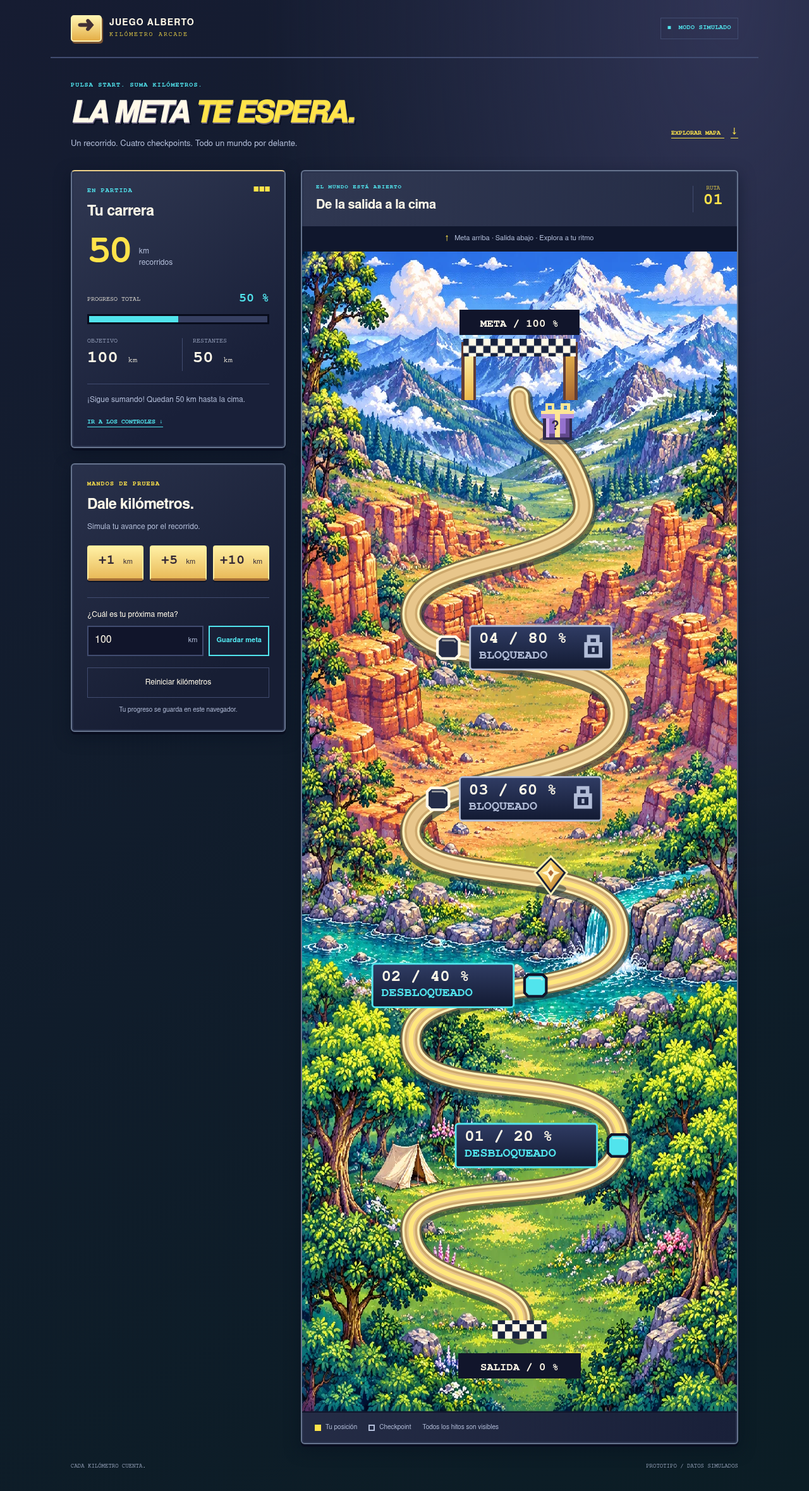
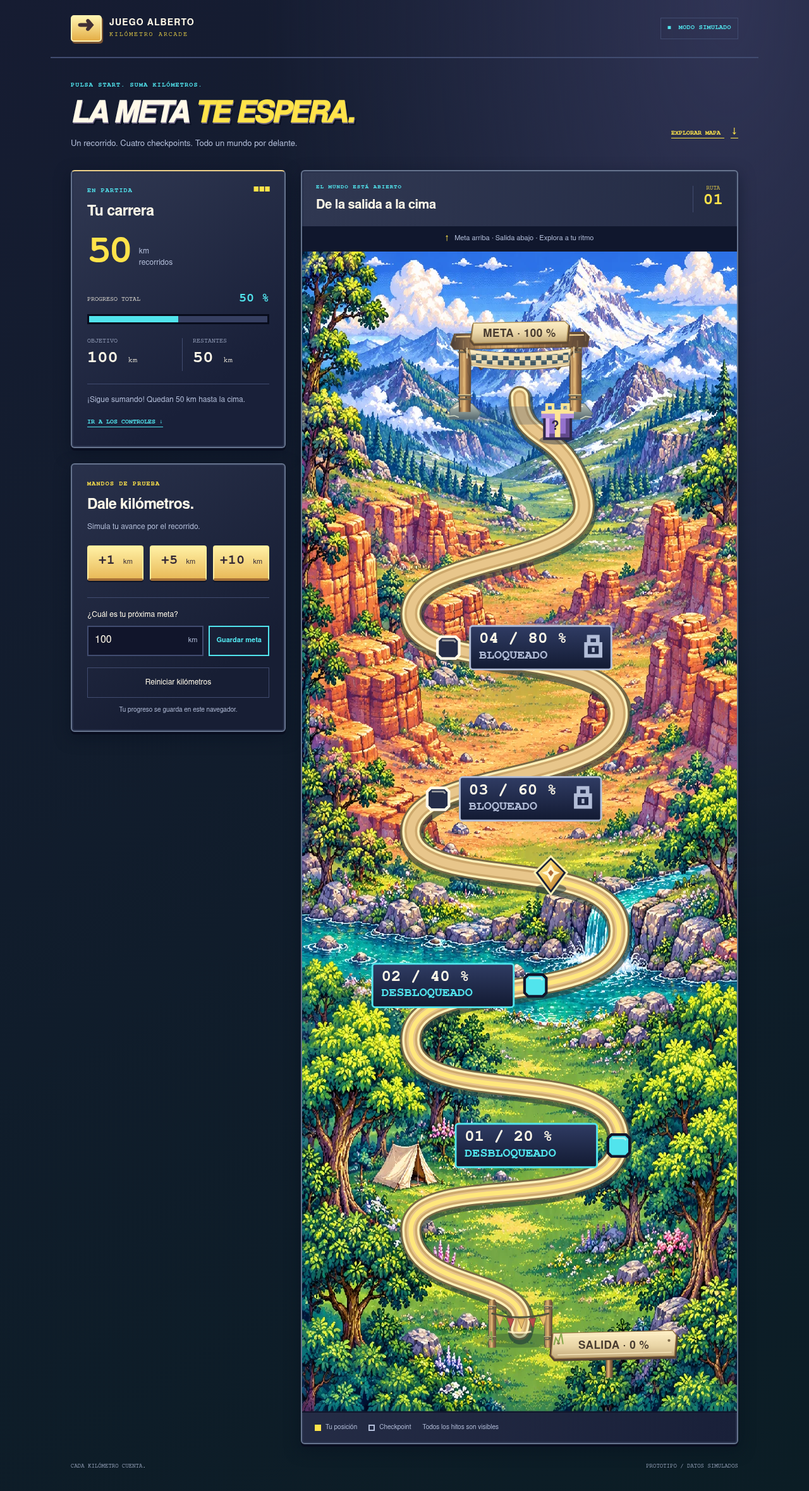
fix: prioritize mobile map and blend start and finish into landscape

Changed region(s): [[0.5625, 0.8665, 0.8438, 0.9284], [0.5625, 0.1857, 0.75, 0.3095]]

diff --git a/frontend/index.html b/frontend/index.html
@@ -19,16 +19,6 @@
   <main id="adventure" tabindex="-1">
     <div class="intro"><div><p class="eyebrow">PULSA START. SUMA KILÓMETROS.</p><h1>LA META <span>TE ESPERA.</span></h1><p>Un recorrido. Cuatro checkpoints. Todo un mundo por delante.</p></div><a class="explore-link" href="#map-heading">EXPLORAR MAPA <span aria-hidden="true">↓</span></a></div>
     <div class="adventure-layout">
-      <section class="progress-card" aria-labelledby="progress-heading">
-        <div class="panel-heading"><p class="eyebrow">EN PARTIDA</p><span aria-hidden="true">■ ■ ■</span></div>
-        <h2 id="progress-heading">Tu carrera</h2>
-        <div class="distance"><span id="distance">0</span><span>km<br>recorridos</span></div>
-        <div class="progress-label"><label for="progress">PROGRESO TOTAL</label><strong id="percentage">0 %</strong></div>
-        <progress id="progress" max="100" value="0">0 %</progress>
-        <dl class="stats"><div><dt>OBJETIVO</dt><dd><span id="goal">100</span> <small>km</small></dd></div><div><dt>RESTANTES</dt><dd><span id="remaining">100</span> <small>km</small></dd></div></dl>
-        <p id="journey-message" class="journey-message">Todo listo. ¡A por el primer kilómetro!</p>
-        <a class="controls-link" href="#simulation-heading">IR A LOS CONTROLES <span aria-hidden="true">↓</span></a>
-      </section>
       <section class="map-card" aria-labelledby="map-heading">
         <div class="map-header"><div><p class="eyebrow">EL MUNDO ESTÁ ABIERTO</p><h2 id="map-heading" tabindex="-1">De la salida a la cima</h2></div><span class="map-badge">RUTA<br><strong>01</strong></span></div>
         <div class="map-guide"><span aria-hidden="true">↑</span> Meta arriba · Salida abajo · Explora a tu ritmo</div>
@@ -39,7 +29,12 @@
             <path id="route" d="M240 1190 C260 1130 120 1150 120 1080 S350 1070 350 980 S120 950 120 870 S350 840 350 750 S120 710 120 640 S350 590 350 510 S120 470 120 400 S330 350 310 270 S240 215 240 160"/>
             <linearGradient id="map-plate" x2="0" y2="1"><stop stop-color="#303c64"/><stop offset="1" stop-color="#121a32"/></linearGradient>
             <linearGradient id="gold-metal" x2="1" y2="1"><stop stop-color="#fff4b0"/><stop offset=".45" stop-color="#efbf53"/><stop offset="1" stop-color="#a96832"/></linearGradient>
-            <pattern id="checks" width="16" height="16" patternUnits="userSpaceOnUse"><rect width="16" height="16" fill="#fff9e8"/><path d="M0 0h8v8H0zM8 8h8v8H8z" fill="#18223d"/></pattern>
+            <linearGradient id="gate-timber"><stop stop-color="#493d37"/><stop offset=".22" stop-color="#ba8d58"/><stop offset=".45" stop-color="#e3b979"/><stop offset=".6" stop-color="#a17549"/><stop offset="1" stop-color="#564334"/></linearGradient>
+            <linearGradient id="gate-stone" x2="0" y2="1"><stop stop-color="#c8c9bd"/><stop offset=".5" stop-color="#8f9d99"/><stop offset="1" stop-color="#576a72"/></linearGradient>
+            <linearGradient id="gate-cloth" x2="0" y2="1"><stop stop-color="#fff0c7"/><stop offset=".55" stop-color="#e9d5a6"/><stop offset="1" stop-color="#c1a878"/></linearGradient>
+            <pattern id="wood-grain" width="18" height="28" patternUnits="userSpaceOnUse"><path d="M3 0v8l2 6v14M12 0v12l-2 7v9" fill="none" stroke="#493d37" stroke-opacity=".3" stroke-width=".8"/><path d="M7 3v12M16 14v10" stroke="#ffe2a1" stroke-opacity=".3" stroke-width=".7"/></pattern>
+            <pattern id="finish-weave" width="12" height="12" patternUnits="userSpaceOnUse"><rect width="12" height="12" fill="#e8d8af"/><path d="M0 0h6v6H0zM6 6h6v6H6z" fill="#405966"/><path d="M0 1h12M0 7h12" stroke="#fff5d6" stroke-opacity=".25" stroke-width=".7"/></pattern>
+            <g id="timber-post"><path d="M-7 0 4-2 7 3 6 80H-7z" fill="url(#gate-timber)"/><path d="M-7 0 4-2 7 3 6 80H-7z" fill="url(#wood-grain)"/><path d="M-5 3v72" stroke="#f9d392" stroke-width="1" opacity=".65"/><path d="M-8 10H7m-15 4H7m-15 48H7m-15 4H7" stroke="#6a6350" stroke-width="2"/><path d="M-8 9H6m-14 52H6" stroke="#e1cf99" stroke-width="1"/><circle cx="1" cy="12" r="1" fill="#403a32"/><circle cx="1" cy="64" r="1" fill="#403a32"/></g>
             <g id="lock"><path d="M-5-3v-7H5v7M-8-2H8v13H-8z" fill="none" stroke="currentColor" stroke-width="4"/><path d="M0 2v5" stroke="currentColor" stroke-width="3"/></g>
           </defs>
           <image href="./assets/world-16bit.webp" width="480" height="1280" preserveAspectRatio="none" aria-hidden="true"/>
@@ -51,13 +46,47 @@
             <use href="#route" stroke="#e8c68b" stroke-width="9"/>
             <use id="route-progress" href="#route" stroke="#ffe77c" stroke-width="5"/>
           </g>
-          <g aria-hidden="true" shape-rendering="crispEdges">
-            <rect x="210" y="1180" width="60" height="20" fill="url(#checks)"/>
-            <path d="M172 1216h136v28H172z" fill="#11152b"/><text x="240" y="1235" text-anchor="middle" class="endpoint">SALIDA / 0 %</text>
-            <path d="M184 164V108h112v56" stroke="#633d35" stroke-width="16" fill="none"/>
-            <path d="M184 164v-56h112v56" stroke="url(#gold-metal)" stroke-width="10" fill="none"/>
-            <rect x="178" y="96" width="124" height="20" fill="url(#checks)"/>
-            <rect x="174" y="64" width="132" height="28" fill="#11152b"/><text x="240" y="83" text-anchor="middle" class="endpoint">META / 100 %</text>
+          <g aria-hidden="true">
+            <!-- Los hitos se apoyan en el terreno con materiales y sombras del paisaje. -->
+            <g id="start-gate">
+              <ellipse cx="240" cy="1202" rx="51" ry="8" fill="#173f32" opacity=".3"/>
+              <g transform="translate(210 1158) scale(.65)"><use href="#timber-post"/></g>
+              <g transform="translate(272 1158) scale(.65)"><use href="#timber-post"/></g>
+              <path d="M209 1172q30 9 64 0" fill="none" stroke="#4c513b" stroke-width="2"/>
+              <path d="m214 1174 8 2-4 10zM238 1178h8l-4 11zM262 1176l8-2-3 12z" fill="#e9bc6b" stroke="#997344" stroke-width=".6"/>
+              <path d="m226 1177 8 1-4 10zM250 1178l8-1-3 11z" fill="#b94f4a" stroke="#793e40" stroke-width=".6"/>
+              <path d="M227 1192q13 3 26 0" fill="none" stroke="#fff0c7" stroke-width="2" opacity=".8"/>
+              <g transform="translate(276 1200)">
+                <ellipse cx="64" cy="43" rx="27" ry="4" fill="#173f32" opacity=".25"/>
+                <path d="M59 4h8v39h-8z" fill="url(#gate-timber)"/>
+                <path d="M-1-5 134-8 139-3 137 22 2 25-3 19z" fill="#584432"/>
+                <path d="M1-6 133-9 137-4 135 19 3 22-1 18z" fill="url(#gate-cloth)" stroke="#9c794a" stroke-width="1"/>
+                <path d="M4-2 132-5M6 18l126-3" stroke="#fff0c7" stroke-width="1" opacity=".8"/>
+                <circle cx="7" cy="5" r="1.5" fill="#7b6848"/><circle cx="129" cy="2" r="1.5" fill="#7b6848"/>
+                <text x="68" y="11" text-anchor="middle" class="endpoint">SALIDA · 0 %</text>
+              </g>
+              <path d="m200 1204 3-8 2 6 4-10 1 12M278 1207l2-8 3 5 3-10 2 12" fill="none" stroke="#88aa4d" stroke-width="1.5"/>
+            </g>
+            <g id="finish-gate">
+              <ellipse cx="240" cy="181" rx="80" ry="10" fill="#344f67" opacity=".26"/>
+              <path d="m163 174 8-8 17 2 9 10-4 7h-30zM287 175l8-8 17 1 9 11-6 6h-28z" fill="url(#gate-stone)" stroke="#61757b" stroke-width=".8"/>
+              <path d="m167 173 8-4 11 2M293 173l5-3 12 1" stroke="#e3e2cc" stroke-width="1.5" fill="none"/>
+              <use href="#timber-post" transform="translate(180 97)"/>
+              <use href="#timber-post" transform="translate(302 97)"/>
+              <path d="m177 103 23 26m103-26-23 26" stroke="#594733" stroke-width="7"/>
+              <path d="m177 102 23 26m103-26-23 26" stroke="#bf985e" stroke-width="4"/>
+              <path d="M168 91 312 89 317 94 315 105 168 108 164 103z" fill="url(#gate-timber)" stroke="#65503b" stroke-width="1"/>
+              <path d="M168 91 312 89 317 94 315 105 168 108 164 103z" fill="url(#wood-grain)"/>
+              <path d="M170 94 311 92" stroke="#f5d596" stroke-width="1.5"/>
+              <path d="M185 108q55 8 112-1l-2 19q-55 9-108 0z" fill="url(#gate-cloth)" stroke="#927d59" stroke-width=".7"/>
+              <path d="M186 112q54 8 110-1l-1 11q-55 8-108 0z" fill="url(#finish-weave)"/>
+              <path d="M188 126q53 7 105-1" fill="none" stroke="#fff0c7" stroke-width="1"/>
+              <path d="m188 80 103-2 5 4-2 20-105 2-4-5z" fill="#604b34"/>
+              <path d="m189 79 101-2 4 4-2 18-102 2-3-4z" fill="url(#gate-cloth)" stroke="#b09259" stroke-width="1"/>
+              <text x="240" y="94" text-anchor="middle" class="endpoint">META · 100 %</text>
+              <path d="M182 106v12m118-13v12" stroke="#dfcba2" stroke-width="1.5"/>
+              <path d="m160 182 8-1 5 2m134 2 6-3 7 1" fill="none" stroke="#d9e0cc" stroke-width="1"/>
+            </g>
             <g id="mystery-gift" transform="translate(282 188)">
               <ellipse cy="20" rx="20" ry="5" fill="#12233a" opacity=".4"/>
               <path d="M-16-12h32v32h-32z" fill="#30294c"/>
@@ -86,6 +115,16 @@
         </svg>
         <ol id="milestone-summary" class="sr-only" aria-label="Estado de los hitos"><li data-milestone="0.2">Checkpoint 20 %: bloqueado.</li><li data-milestone="0.4">Checkpoint 40 %: bloqueado.</li><li data-milestone="0.6">Checkpoint 60 %: bloqueado.</li><li data-milestone="0.8">Checkpoint 80 %: bloqueado.</li><li data-milestone="1">Meta 100 %: pendiente.</li></ol>
         <div class="map-footer"><span><i class="legend-marker" aria-hidden="true"></i> Tu posición</span><span><i class="legend-node" aria-hidden="true"></i> Checkpoint</span><span>Todos los hitos son visibles</span></div>
+      </section>
+      <section class="progress-card" aria-labelledby="progress-heading">
+        <div class="panel-heading"><p class="eyebrow">EN PARTIDA</p><span aria-hidden="true">■ ■ ■</span></div>
+        <h2 id="progress-heading">Tu carrera</h2>
+        <div class="distance"><span id="distance">0</span><span>km<br>recorridos</span></div>
+        <div class="progress-label"><label for="progress">PROGRESO TOTAL</label><strong id="percentage">0 %</strong></div>
+        <progress id="progress" max="100" value="0">0 %</progress>
+        <dl class="stats"><div><dt>OBJETIVO</dt><dd><span id="goal">100</span> <small>km</small></dd></div><div><dt>RESTANTES</dt><dd><span id="remaining">100</span> <small>km</small></dd></div></dl>
+        <p id="journey-message" class="journey-message">Todo listo. ¡A por el primer kilómetro!</p>
+        <a class="controls-link" href="#simulation-heading">IR A LOS CONTROLES <span aria-hidden="true">↓</span></a>
       </section>
       <section class="simulation-card" aria-labelledby="simulation-heading">
         <p class="eyebrow">MANDOS DE PRUEBA</p><h2 id="simulation-heading" tabindex="-1">Dale kilómetros.</h2><p class="hint">Simula tu avance por el recorrido.</p>

diff --git a/frontend/css/style.css b/frontend/css/style.css
@@ -67,8 +67,7 @@ progress::-moz-progress-bar { background: var(--cyan); }
 .map-guide > span { color: var(--yellow); margin-right: 6px; }
 .map { display: block; width: 100%; height: auto; }
 .map image { image-rendering: pixelated; }
-.terrain-label { fill: #11152b; font: bold 11px ui-monospace, monospace; letter-spacing: 1px; }
-.endpoint { fill: #fff9e8; font: bold 12px ui-monospace, monospace; }
+.endpoint { fill: #493c30; font: 800 12px system-ui, sans-serif; letter-spacing: .3px; }
 .checkpoint { color: #b2bdd8; }
 .checkpoint-node { fill: #252d49; stroke: #fff9e8; stroke-width: 3px; }
 .checkpoint-label > rect { fill: url(#map-plate); stroke: #b2bdd8; stroke-width: 2px; rx: 3px; }
@@ -113,7 +112,7 @@ form label { font-size: 12px; display: block; margin-bottom: 10px; }
   h1 { max-width: 420px; font-size: clamp(32px, 7vw, 44px); }
   .intro p:last-child { max-width: 340px; }
   .explore-link { display: inline-block; margin-top: 8px; }
-  .adventure-layout { grid-template-columns: minmax(0, 1fr); grid-template-rows: auto; grid-template-areas: "hud" "map" "sim"; gap: 22px; }
+  .adventure-layout { grid-template-columns: minmax(0, 1fr); grid-template-rows: auto; grid-template-areas: "map" "hud" "sim"; gap: 22px; }
   .progress-card, .simulation-card { padding: 22px; }
   .distance { margin: 18px 0; }
   .distance > span:first-child { font-size: 56px; }

diff --git a/tests/browser-smoke.js b/tests/browser-smoke.js
@@ -127,6 +127,14 @@ async (page) => {
         });
     });
     assert(fits, `El contenido y los controles deben caber a ${width}px`);
+    if (width <= 760) {
+      assert(await page.evaluate(() => {
+        const map = document.querySelector('.map-card').getBoundingClientRect();
+        const hud = document.querySelector('.progress-card').getBoundingClientRect();
+        const controls = document.querySelector('.simulation-card').getBoundingClientRect();
+        return map.bottom <= hud.top && hud.bottom <= controls.top;
+      }), 'En móvil el mapa debe aparecer primero, seguido de los datos y los controles');
+    }
     const map = page.locator('.map');
     assert(await map.isVisible() && await page.locator('[data-checkpoint]').count() === 4,
       'Todo el mapa y sus checkpoints deben existir desde el principio');

diff --git a/README.md b/README.md
@@ -29,8 +29,8 @@ La dirección del proyecto es <https://albertoybelen.ddev.site/frontend/>.
 ## Usar el prototipo
 
 - Empieza con 0 km y una meta de 100 km.
-- El HUD resume kilómetros, objetivo, porcentaje y restantes. En móvil aparece
-  antes del mapa; **Ir a los controles** salta directamente a la simulación.
+- En móvil se muestra primero el mapa y debajo el HUD con kilómetros, objetivo,
+  porcentaje y restantes. **Ir a los controles** salta directamente a la simulación.
 - **Explorar mapa** lleva al recorrido completo. La salida está abajo y la meta
   arriba: desplázate por bosque, río, cañón y montaña desde el primer día.
 - Los checkpoints del 20/40/60/80 % cambian de **BLOQUEADO** a **DESBLOQUEADO**
@@ -38,6 +38,8 @@ La dirección del proyecto es <https://albertoybelen.ddev.site/frontend/>.
   que el indicador. Cambiar la meta o reiniciar recalcula todos sus estados.
 - La meta al 100 % tiene un arco y un regalo misterioso decorativo. Los hitos
   no abren contenido: fotografías, premio y celebración quedan para otras issues.
+- La salida y el arco de meta usan madera con vetas, tela, piedra y sombras,
+  dibujadas en SVG para integrarse con el paisaje de 16 bits.
 - Suma +1, +5 o +10 km para mover el personaje por el camino.
 - Introduce una meta de al menos 0,1 km, en pasos de 0,1, y pulsa **Guardar meta**
   o Enter. Un valor inválido muestra un error sin cambiar la meta vigente.
@@ -81,7 +83,8 @@ Esta prueba reinicia los datos simulados del origen local y comprueba controles,
 posición SVG, persistencia, errores, teclado, movimiento reducido, almacenamiento
 bloqueado y ausencia de desbordamientos a 320, 390, 768 y 1280 px. Comprueba también
 el indicador al 0/20/50/80/100 %, los cuatro umbrales justo antes y al alcanzarlos,
-sus etiquetas dentro del mapa y el bloqueo tras reiniciar.
+sus etiquetas dentro del mapa, el bloqueo tras reiniciar y el orden mapa → datos
+→ controles en móvil.
 
 Comprobaciones manuales con el servidor local:
 
